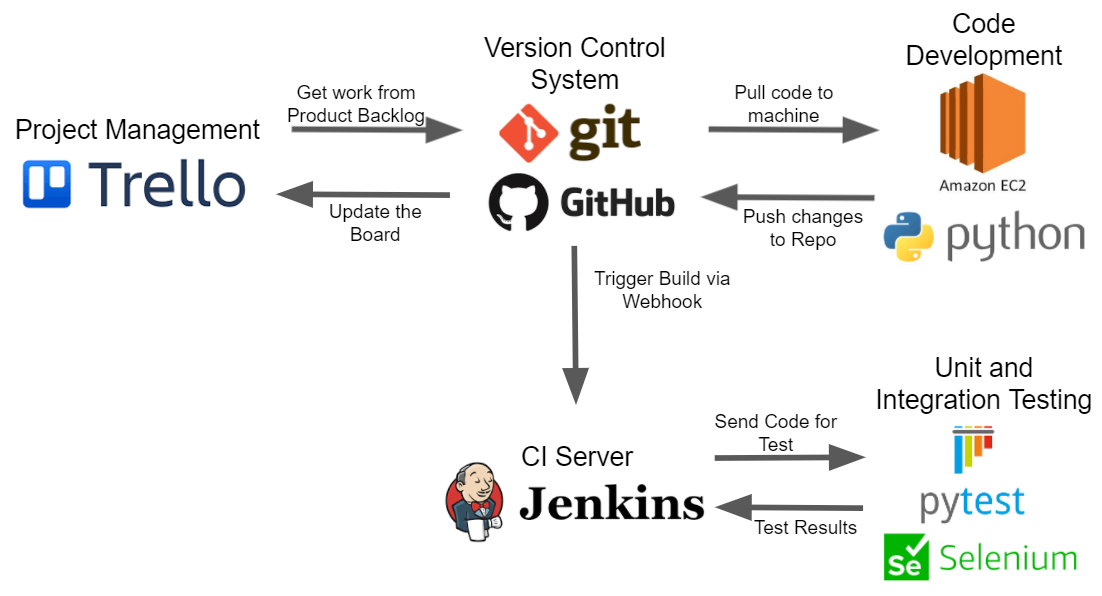
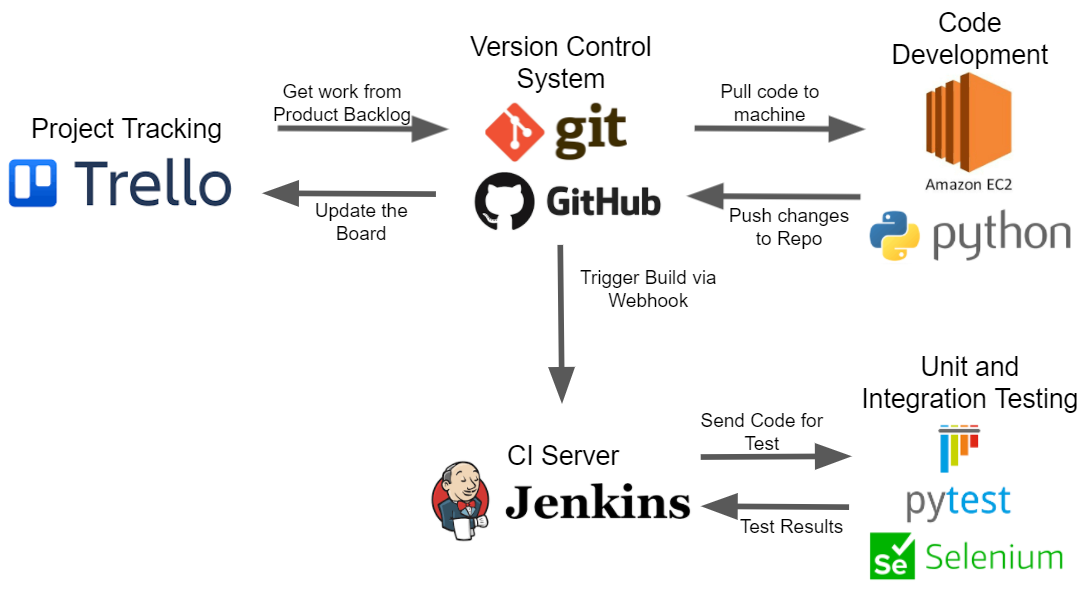
Added documentation for CI pipeline section and modified the ci pipeline diagram.

diff --git a/README.md b/README.md
@@ -1,7 +1,7 @@
 # DevOps Core Fundamental Project
 
 ## Useful Links
-* [Trello Board](https://trello.com/b/L9eDm4ez/1st-project)
+* Trello Board: [Click Here](https://trello.com/b/L9eDm4ez/1st-project)
 
 
 ## Contents
@@ -42,8 +42,23 @@ These two tables have a One-to-Many relationship, which is denoted by the link b
 
 
 ## Continuous Integration (CI) Pipeline
+The CI pipeline provides the ability to maintain a single source code repository for a project. This means that everyone working on the project are all well informaed as to what is happening with th project. In addition to this, the CI pipeline allow for fast and smoother integration of new features as it promotes the automation of the integration process.
+
+For this project, a continuous integration pipeline has been used for the benefits stated earlier, and the model used can be seen in the diagram below:
+
+![continuous Integration Pipeline Diagram](images/CI_pipeline_updated.png)
+
+To keep track of the product backlog, the project utilises the Trello board as the main project tracking software. As for the code development, the project was developed using an Amazon Web Service (AWS) ec2 Linux instance, and the Python programming language was used.
+
+Changes to the code are pulled from and pushed to the version control system, which for this project is utilising Git with GitHub.
+
+As for the Continuous Integration Server, the project uses Jenkins as the main software. This tool is linked to the pipeline via webhook with GitHub. In the event that changes are pushed to GitHub, the webhook triggers a new Jenkins build which automates the testing of the application.
+
+This automation process starts by Jenkins pulling the latest code repository from GitHub and is then passed to a build tool. From this, unit and integration testing are performed using Pytest and Selenium. Once the tests are completed, the coverage reports are then sent back where it is then displayed within the build history.
+
 ### Project Tracking
 Trello
+agile methodology
 
 ![Trello Sprints](images/trello_sprints.png)
 
@@ -61,7 +76,7 @@ This virtual machine was then used, alongside Python, in order to develop the ap
 ### Continuous Integration (CI) Server
 Jenkins
 
-![continuous Integration Pipeline Diagram](images/CI_Pipeline_updated.png)
+
 
 
 ## Risk Assessment
